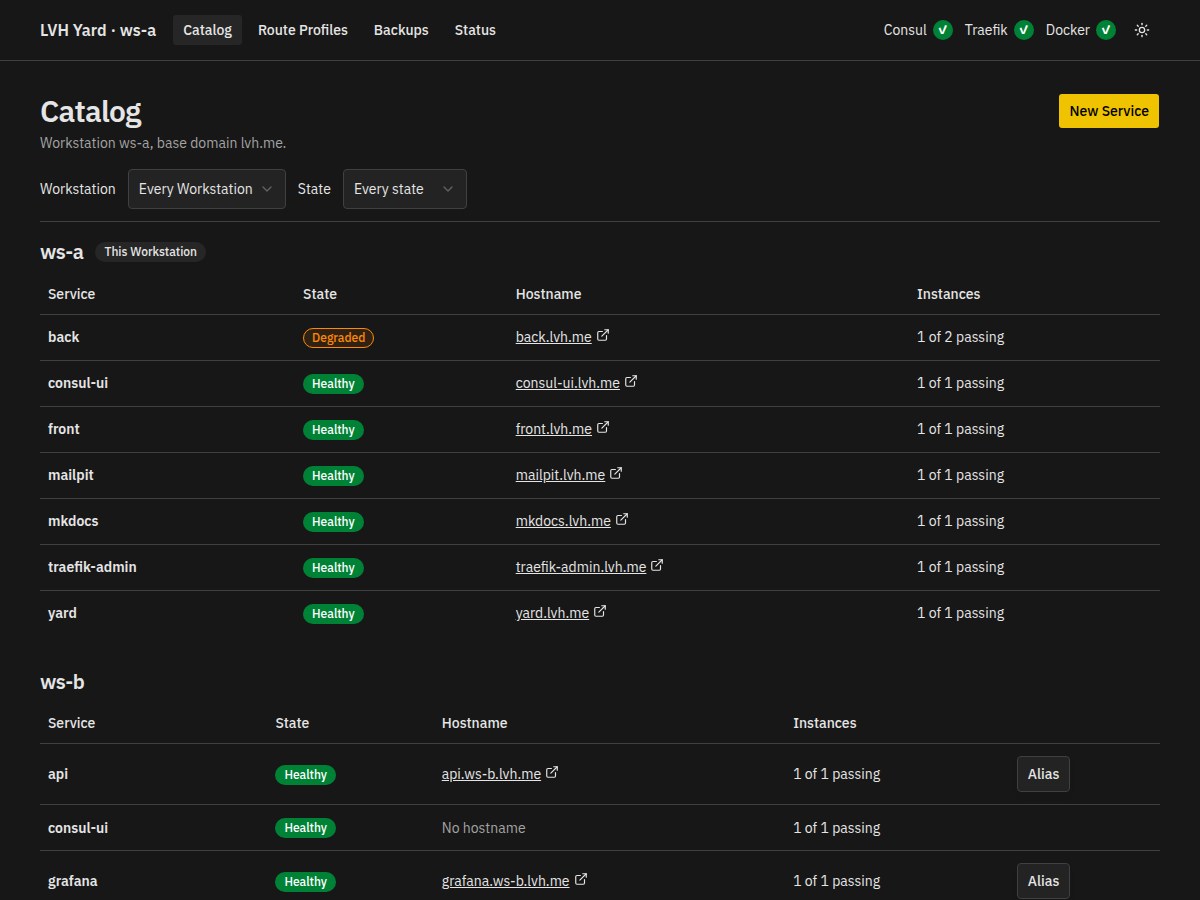
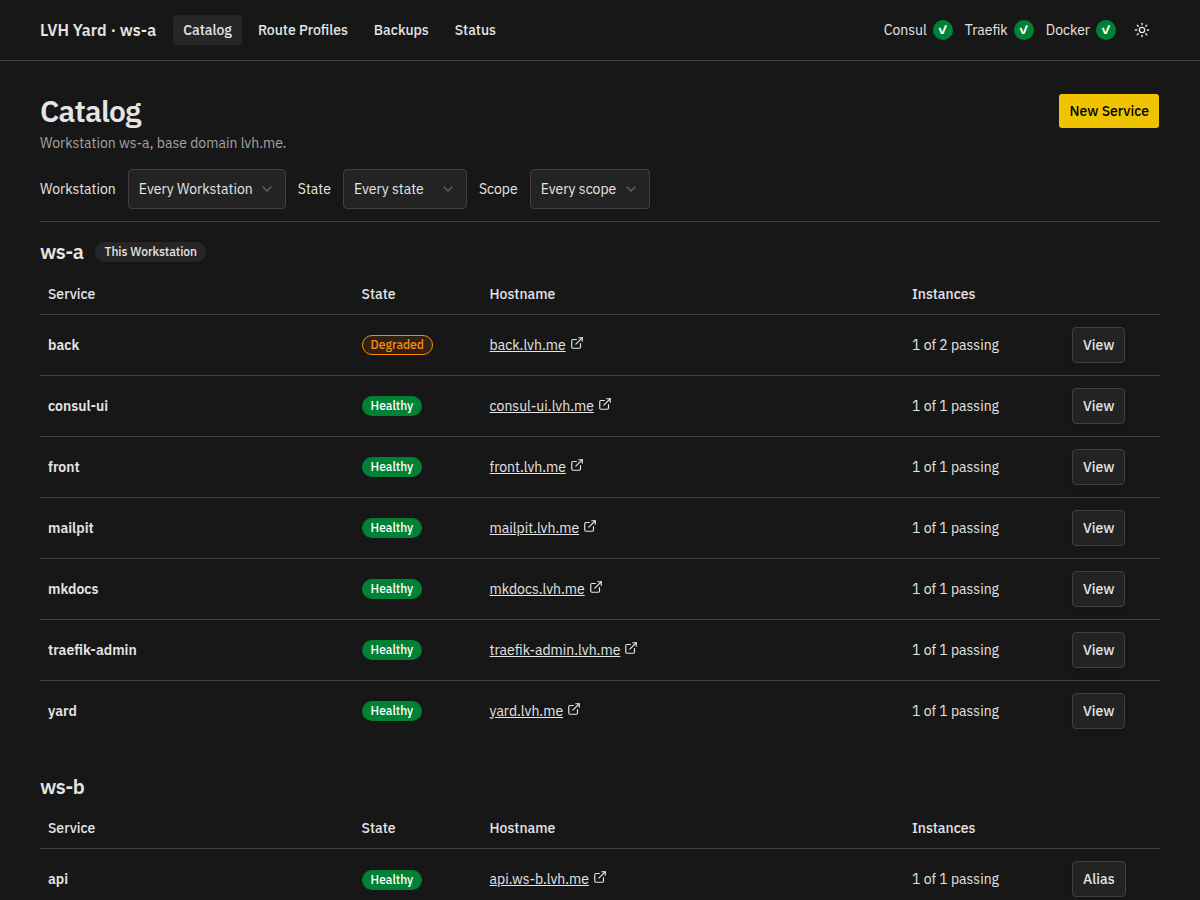
Align the Catalog tables, add View buttons and a Scope filter
Every Workstation's table now has the same fixed columns. The home table gets
a View button in the Actions column. The Catalog filters by Scope, and a Scope
filter hides Services that are not published. The site screenshots show it.

diff --git a/dashboard/src/main/css/app.css b/dashboard/src/main/css/app.css
@@ -80,9 +80,37 @@
     white-space: normal;
   }
 
+  /* Every Workstation has its own table. Fixed columns keep them aligned with each other. */
+  @media (width >= 48rem) {
+    .catalog-table {
+      table-layout: fixed;
+      width: 100%;
+    }
+
+    .catalog-table th:nth-child(1) {
+      width: 28%;
+    }
+
+    .catalog-table th:nth-child(2) {
+      width: 8rem;
+    }
+
+    .catalog-table th:nth-child(4) {
+      width: 10rem;
+    }
+
+    .catalog-table th:nth-child(5) {
+      width: 6rem;
+    }
+  }
+
   @media (width < 48rem) {
     .catalog-filters > div {
       flex: 1 1 9rem;
+    }
+
+    .catalog-table .catalog-spare {
+      display: none;
     }
 
     /* Keep one table and one set of links when its rows stack on a phone. */

diff --git a/dashboard/src/main/java/cc/lvhy/yard/dashboard/web/CatalogPage.java b/dashboard/src/main/java/cc/lvhy/yard/dashboard/web/CatalogPage.java
@@ -5,6 +5,7 @@ import static cc.lvhy.yard.dashboard.events.EventBroadcaster.YARD_CHANGED;
 import cc.lvhy.yard.dashboard.Workstation;
 import cc.lvhy.yard.dashboard.services.Health;
 import cc.lvhy.yard.dashboard.services.HomeWorkstation;
+import cc.lvhy.yard.dashboard.services.Scope;
 import cc.lvhy.yard.dashboard.services.Service;
 import cc.lvhy.yard.dashboard.services.ServiceState;
 import cc.lvhy.yard.dashboard.services.Yard;
@@ -23,25 +24,32 @@ final class CatalogPage {
   private CatalogPage() {}
 
   /**
-   * A {@code null} filter does not filter. Both stay in the page's address, as {@code
-   * ?workstation=<name>&state=<state>}.
+   * A {@code null} filter does not filter. All stay in the page's address, as {@code
+   * ?workstation=<name>&state=<state>&scope=<scope>}. A Service that is not published has no Scope,
+   * so a Scope filter hides it.
    */
-  record Filters(String workstation, ServiceState state) {
+  record Filters(String workstation, ServiceState state, Scope scope) {
 
     boolean shows(String name) {
       return workstation == null || workstation.equals(name);
     }
 
     List<Service> of(List<Service> services) {
-      return state == null
-          ? services
-          : services.stream().filter(service -> service.state() == state).toList();
+      return services.stream()
+          .filter(service -> state == null || service.state() == state)
+          .filter(service -> scope == null || scopeOf(service) == scope)
+          .toList();
+    }
+
+    private static Scope scopeOf(Service service) {
+      return service.published() ? service.publication().scope() : null;
     }
 
     String path() {
       return UriComponentsBuilder.fromPath("/")
           .queryParamIfPresent("workstation", Optional.ofNullable(workstation))
           .queryParamIfPresent("state", Optional.ofNullable(state).map(ServiceState::value))
+          .queryParamIfPresent("scope", Optional.ofNullable(scope).map(Scope::value))
           .encode()
           .build()
           .toUriString();
@@ -160,6 +168,31 @@ final class CatalogPage {
                         .__()))
         .__()
         .__()
+        .div()
+        .attrClass("flex min-w-0 flex-col gap-1.5 md:flex-row md:items-center md:gap-3")
+        .label()
+        .attrFor("scope")
+        .text("Scope")
+        .__()
+        .select()
+        .attrClass("select")
+        .attrId("scope")
+        .attrName("scope")
+        .option()
+        .attrValue("")
+        .text("Every scope")
+        .__()
+        .of(select ->
+            Arrays.stream(Scope.values())
+                .forEach(scope ->
+                    select
+                        .option()
+                        .attrValue(scope.value())
+                        .of(option -> option.attrSelected(scope == filters.scope()))
+                        .text(scopeLabel(scope))
+                        .__()))
+        .__()
+        .__()
         .__();
   }
 
@@ -223,7 +256,9 @@ final class CatalogPage {
                 : "Click New Service to add one.");
       } else {
         EmptyState.render(
-            region, "No Services in this state.", "Choose Every state to see all Services.");
+            region,
+            "No Services match the filters.",
+            "Choose Every state and Every scope to see all Services.");
       }
       return;
     }
@@ -246,11 +281,7 @@ final class CatalogPage {
         .th()
         .text("Instances")
         .__()
-        .of(head -> {
-          if (remote) {
-            head.th().span().attrClass("sr-only").text("Actions").__().__();
-          }
-        })
+        .of(head -> head.th().span().attrClass("sr-only").text("Actions").__().__())
         .__()
         .__()
         .tbody()
@@ -298,17 +329,29 @@ final class CatalogPage {
           }
         })
         .__()
-        .of(tr -> {
-          if (remote) {
-            tr.td()
-                .of(cell -> {
-                  if (service.sharedWithYard()) {
-                    AliasRemoteServicePage.button(cell, service);
-                  }
-                })
+        .td()
+        .of(cell -> {
+          if (!remote) {
+            cell.a()
+                .attrClass("btn")
+                .addAttr("data-variant", "outline")
+                .attrHref(Layout.attr(ServicePage.path(service)))
+                .text("View")
                 .__();
+          } else if (service.sharedWithYard()) {
+            AliasRemoteServicePage.button(cell, service);
+          } else {
+            cell.attrClass("catalog-spare");
           }
         })
+        .__()
         .__();
+  }
+
+  private static String scopeLabel(Scope scope) {
+    return switch (scope) {
+      case LOCAL -> "Local";
+      case YARD -> "Yard";
+    };
   }
 }

diff --git a/dashboard/src/test/java/cc/lvhy/yard/dashboard/CatalogPageComponentTest.java b/dashboard/src/test/java/cc/lvhy/yard/dashboard/CatalogPageComponentTest.java
@@ -48,7 +48,8 @@ class CatalogPageComponentTest extends DashboardComponentTest {
         .untilAsserted(() -> {
           String page = getPage("/").getBody();
           assertThat(page)
-              .containsOnlyOnce("href=\"/services/ws-test/" + grafana + "\"")
+              .containsOnlyOnce(
+                  "class=\"catalog-service-link\" href=\"/services/ws-test/" + grafana + "\"")
               .contains("<th>Service</th><th>State</th><th>Hostname</th><th>Instances</th>")
               .doesNotContain("<th>Instance</th>", "<th>Health</th>")
               .doesNotContain("10.1.2.3:3001");
@@ -137,6 +138,26 @@ class CatalogPageComponentTest extends DashboardComponentTest {
     assertThat(page)
         .contains("href=\"/services/ws-test/" + api + "\"")
         .doesNotContain("href=\"/services/ws-test/" + web + "\"");
+  }
+
+  @Test
+  void filtersByScopeAndHidesUnpublishedServices() {
+    String local = newServiceName("web");
+    String shared = newServiceName("api");
+    String unpublished = newServiceName("db");
+    register(local, Map.of("host", "10.1.2.3", "port", 8080));
+    register(shared, Map.of("host", "10.1.2.3", "port", 9090));
+    register(unpublished, Map.of("host", "10.1.2.3", "port", 5432));
+    publish(local);
+    put(publicationPath(shared), Map.of("scope", "yard"));
+
+    String page = getPage("/?scope=yard").getBody();
+
+    assertThat(page)
+        .contains("href=\"/services/ws-test/" + shared + "\"")
+        .contains("<option value=\"yard\" selected=\"selected\">Yard</option>")
+        .doesNotContain("href=\"/services/ws-test/" + local + "\"")
+        .doesNotContain("href=\"/services/ws-test/" + unpublished + "\"");
   }
 
   @Test

diff --git a/dashboard/src/main/java/cc/lvhy/yard/dashboard/web/PagesController.java b/dashboard/src/main/java/cc/lvhy/yard/dashboard/web/PagesController.java
@@ -92,17 +92,26 @@ class PagesController {
   @ResponseBody
   String catalog(
       @RequestParam(required = false) String workstation,
-      @RequestParam(required = false) String state) {
+      @RequestParam(required = false) String state,
+      @RequestParam(required = false) String scope) {
     ServiceState only;
     try {
       only = blank(state) ? null : ServiceState.parse(state);
     } catch (UnknownStateException e) {
       throw new ResponseStatusException(HttpStatus.BAD_REQUEST, e.getMessage(), e);
     }
+    Scope shared =
+        blank(scope)
+            ? null
+            : Scope.named(scope)
+                .orElseThrow(() ->
+                    new ResponseStatusException(
+                        HttpStatus.BAD_REQUEST,
+                        "The Scope " + scope + " is unknown. Use local or yard."));
     return CatalogPage.render(
         this.workstation,
         yard.yard(),
-        new CatalogPage.Filters(blank(workstation) ? null : workstation, only));
+        new CatalogPage.Filters(blank(workstation) ? null : workstation, only, shared));
   }
 
   private static boolean blank(String value) {

diff --git a/docs/user-guide.md b/docs/user-guide.md
@@ -34,9 +34,10 @@ The Catalog shows one row for each Service, grouped by Workstation. Its columns
 are Service, State, Hostname and Instances. On a phone, each row stacks these
 facts without sideways scrolling. The Instances count says "2 of 3 passing",
 for example, or "No Instances". Unpublished Services show the count too.
-Instance addresses are on the Service page. You can filter by Workstation
-and state. The Catalog refreshes when something in the Yard changes, and at
-least every 30 seconds. It keeps your filters.
+Instance addresses are on the Service page. You can filter by Workstation,
+state and Scope. A Scope filter hides Services that are not published. The
+Catalog refreshes when something in the Yard changes, and at least every 30
+seconds. It keeps your filters.
 
 ## Running on a Workstation
 
